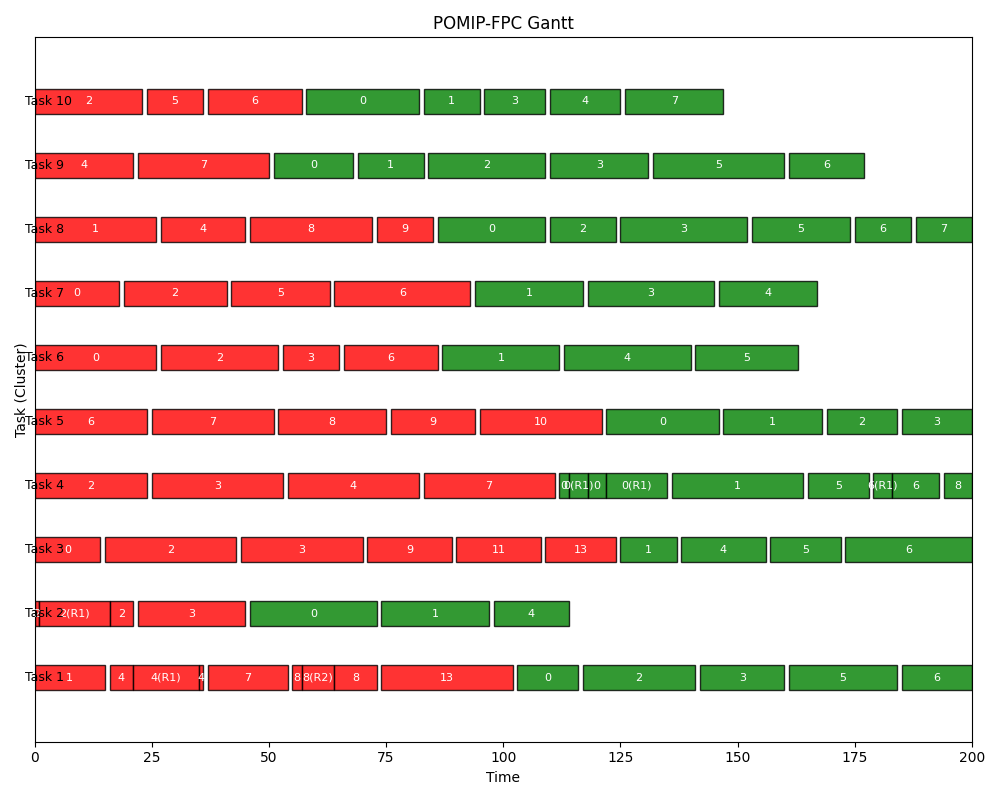
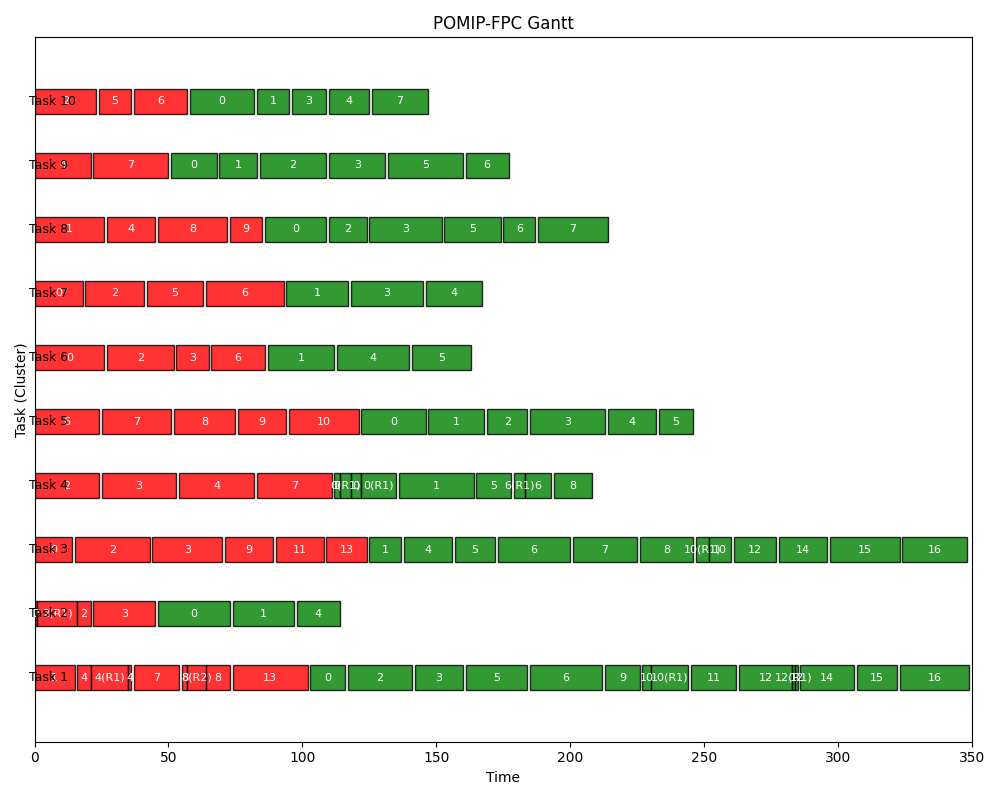
final fix

diff --git a/main2.py b/main2.py
@@ -327,6 +327,7 @@ def assign_resource_intervals_to_nodes(tasks, resources, resources_info):
         for i, usage_count in enumerate(distribution):
             if usage_count <= 0:
                 continue
+            print(f'resources for task {i}')
             candidate_nodes = [nd for nd in tasks[i].node_list if nd.wcet > 0]
 
             while usage_count > 0 and candidate_nodes:
@@ -344,6 +345,7 @@ def assign_resource_intervals_to_nodes(tasks, resources, resources_info):
                         )
                         if not conflict:
                             node.add_resource_interval(start, end, rid)
+                            print(f'node {node.node_id} resource {rid} from {start} to {end}')
                             usage_count -= 1
                             break
                     if usage_count <= 0:
@@ -745,7 +747,7 @@ def main():
     # FIFO
     for t in tasks:
         t.reset_nodes()
-    sched_fifo = POMIPScheduler(tasks, resources, policy="FIFO", time_limit=200)
+    sched_fifo = POMIPScheduler(tasks, resources, policy="FIFO", time_limit=2000)
     fifo_result = sched_fifo.run()
     print("\n=== POMIP (FIFO) ===")
     print("Schedulable?", fifo_result["schedulable"])
@@ -756,7 +758,7 @@ def main():
     # FPC
     for t in tasks:
         t.reset_nodes()
-    sched_fpc = POMIPScheduler(tasks, resources, policy="FPC", time_limit=200)
+    sched_fpc = POMIPScheduler(tasks, resources, policy="FPC", time_limit=2000)
     fpc_result = sched_fpc.run()
     print("\n=== POMIP (FPC) ===")
     print("Schedulable?", fpc_result["schedulable"])

diff --git a/report.md b/report.md
@@ -1,175 +1,183 @@
 <div dir="rtl">
 
-# تولید وظایف و منابع برای سیستمهای زمانبندی واقعی
+# تولید وظایف و پیادهسازی الگوریتم زمانبندی POMIP
 
-**نویسندگان:**
+**نویسندگان:**  
 - **محمد رضایی**  
-  شماره دانشجویی: ۹۹۱۰۵۴۵۳
-- **محمد امین احمدزاده**  
-  شماره دانشجویی: ۹۹۱۰۵۲۰۴
+  شماره دانشجویی: ۹۹۱۰۵۴۵۳  
+- **سید محمد امین احمدزاده**  
+  شماره دانشجویی: ۹۹۱۰۵۲۰۴  
 
 ---
 
 ## فهرست مطالب
-1. [مقدمه](#مقدمه)
-2. [مروری بر پروژه](#مروری-بر-پروژه)
-3. [روششناسی](#روششناسی)
-    - [تنظیم پارامترها](#تنظیم-پارامترها)
-    - [تولید گراف](#تولید-گراف)
-        - [ایجاد یک DAG تصادفی](#ایجاد-یک-DAG-تصادفی)
-        - [محاسبه طول مسیر طولانیترین](#محاسبه-طول-مسیر-طولانیترین)
-        - [تولید یک وظیفه](#تولید-یک-وظیفه)
-    - [تولید منابع](#تولید-منابع)
-    - [محاسبه پردازندهها](#محاسبه-پردازندهها)
-4. [نتایج](#نتایج)
-    - [وظایف تولید شده](#وظایف-تولید-شده)
-    - [منابع مشترک](#منابع-مشترک)
-    - [نیازمندیهای پردازنده](#نیازمندیهای-پردازنده)
-5. [نتیجهگیری](#نتیجهگیری)
-6. [کارهای آینده](#کارهای-آینده)
+1. [مقدمه](#مقدمه)  
+2. [مروری بر پروژه](#مروری-بر-پروژه)  
+3. [روششناسی](#روششناسی)  
+   1. [تنظیم پارامترها](#تنظیم-پارامترها)  
+   2. [تولید گراف](#تولید-گراف)  
+      - [ایجاد یک DAG تصادفی](#ایجاد-یک-dag-تصادفی)  
+      - [محاسبه طول مسیر طولانیترین](#محاسبه-طول-مسیر-طولانیترین)  
+      - [تولید یک وظیفه](#تولید-یک-وظیفه)  
+   3. [تولید منابع](#تولید-منابع)  
+   4. [محاسبه پردازندهها](#محاسبه-پردازندهها)  
+   5. [الگوریتم زمانبندی POMIP](#الگوریتم-زمانبندی-pomip)  
+      - [صف محلی و صف سراسری](#صف-محلی-و-صف-سراسری)  
+      - [قانون ۱: پیشدستی در خوشه](#قانون-۱-پیشدستی-در-خوشه)  
+      - [قانون ۲: مهاجرت به خوشه دیگر](#قانون-۲-مهاجرت-به-خوشه-دیگر)  
+      - [سیاستهای FIFO و FPC](#سیاستهای-fifo-و-fpc)  
+      - [محاسبه QoS و ترسیم نمودار](#محاسبه-qos-و-ترسیم-نمودار)  
+4. [نتایج](#نتایج)  
+   1. [وظایف تولیدشده](#وظایف-تولیدشده)  
+   2. [منابع مشترک](#منابع-مشترک)  
+   3. [نیازمندیهای پردازنده](#نیازمندیهای-پردازنده)  
+   4. [زمانبندی بر اساس POMIP](#زمانبندی-بر-اساس-pomip)  
+5. [نتیجهگیری](#نتیجهگیری)  
 
 ---
 
 ## مقدمه
 
-در سیستمهای زمانبندی واقعی، برنامهریزی مؤثر وظایف و مدیریت منابع برای اطمینان از قابلیت اطمینان و عملکرد سیستم حیاتی است. این پروژه بر تولید گرافهای وظیفهای تصادفی (DAG)، اختصاص ویژگیها به این وظایف، مدیریت منابع مشترک و محاسبه تعداد پردازندههای مورد نیاز با استفاده از روشهای مختلف زمانبندی تمرکز دارد. هدف این است که رفتار وظایف در محیطی شبیهسازی شده از سیستمهای زمانبندی واقعی تحلیل و بررسی شود.
+در سیستمهای زمانبندی واقعی، تضمین اجرای وظایف پیش از موعد تعیینشده (Deadline) اهمیت حیاتی دارد. این پروژه با هدف تولید وظایف بهصورت گرافهای جهتدار بدونحلقه (DAG)، تخصیص خصوصیات زمانی به آنها، تعریف منابع مشترک و در نهایت اجرای الگوریتم زمانبندی **POMIP** طراحی شده است. در این الگوریتم، **پیشدستی** (در سطح خوشه) و **مهاجرت** (در صورت بلاکشدن روی منبع) نقش اساسی دارند؛ همچنین سیاستهای متفاوتی برای مرتبسازی صف منابع (FIFO و FPC) مقایسه میشوند و **کیفیت خدمت** (QoS) برای وظایف نرم نیز اندازهگیری میشود.
 
 ## مروری بر پروژه
 
-این پروژه شامل موارد زیر است:
-- تولید تعداد مشخصی وظیفه، هر کدام به صورت یک گراف جهتدار بدون حلقه (DAG) نمایش داده میشوند.
-- اختصاص ویژگیهایی مانند زمان اجرای بدترین حالت (WCET)، بحرانی بودن و مهلتها به هر وظیفه.
-- ایجاد منابع مشترک با الگوهای دسترسی تعریفشده میان وظایف.
-- محاسبه بهرهوری کلی پردازنده و تعیین تعداد پردازندههای مورد نیاز با استفاده از روشهای برنامهریزی ساده و فدراتد.
-- مصورسازی گرافهای وظیفه تولید شده برای درک و تحلیل بهتر.
+در این پروژه، ابتدا پارامترهای زیر برای تولید وظایف و منابع مشترک مشخص میگردد:
+
+1. **تعداد وظایف** (Tasks) که هر یک به شکل یک گراف DAG تولید میشوند.  
+2. **پارامترهای زمانی** مثل WCET، نسبت مهلت (Deadline)، و نوع گرههای سخت (Hard) یا نرم (Soft).  
+3. **منابع مشترک** که وظایف در حین اجرا ممکن است نیاز به قفلکردن آن داشته باشند.  
+4. **محاسبه تعداد پردازندهها** با دو رویکرد ساده و فدراتد.  
+
+سپس الگوریتم **POMIP** (Preemptive On-demand Migration for Parallel processing) با **قانون ۱ (پیشدستی در خوشه)** و **قانون ۲ (مهاجرت به خوشه دیگر)** پیاده میگردد. در پایان، نمودار گانت (Gantt) برای نمایش اجراهای همزمان و **نمودار QoS برحسب زمان** رسم میشود تا تأثیر سیاست **FIFO** و **FPC** قابل مشاهده باشد.
 
 ## روششناسی
 
 ### تنظیم پارامترها
 
-پروژه با تعریف چندین پارامتر آغاز میشود که ویژگیهای وظایف و منابع را مشخص میکنند:
-
-- **تعداد وظایف (`NUM_TASKS`)**: تعداد وظایفی که تولید خواهند شد.
-- **بازه تعداد گرهها (`NODES_RANGE`)**: بازه تعداد گرههای میانی در هر DAG وظیفه.
-- **بازه WCET (`WCET_RANGE`)**: بازه زمان اجرای بدترین حالت هر گره.
-- **احتمال یال (`P_EDGE`)**: احتمال ایجاد یال بین دو گره در DAG.
-- **بازه نسبت مهلت (`D_RATIO_RANGE`)**: بازه نسبت طول مسیر بحرانی به مهلت.
-- **بازه منابع (`RESOURCE_RANGE`)**: بازه تعداد منابع مشترک.
-- **بازه تعداد دسترسیها (`ACCESS_COUNT_RANGE`)**: بازه تعداد کل دسترسی به هر منبع.
-- **بازه طول دسترسی (`ACCESS_LEN_RANGE`)**: بازه حداکثر طول دسترسی (بخش بحرانی) به یک منبع.
-- **احتمال تبدیل Hard به Soft (`HARD_SOFT_PROB`)**: احتمال تبدیل یک گره از نوع Hard به Soft در صورت عدم نقض محدودیتها.
-- **نسبتهای بحرانی (`CRITICAL_RATIOS`)**: نسبتهای ممکن گرههای بحرانی به غیربحرانی در یک وظیفه.
-- **دایرکتوری خروجی (`OUTPUT_DIR`)**: دایرکتوری برای ذخیره تصاویر گرافهای تولید شده.
+پارامترهای اصلی عبارتاند از:
+- `NUM_TASKS`: تعداد وظایف تولیدی  
+- `NODES_RANGE`: بازه تعداد گرههای میانی در هر وظیفه  
+- `WCET_RANGE`: بازه زمان اجرای بدترین حالت برای هر گره  
+- `P_EDGE`: احتمال ایجاد یال بین گرهها  
+- `D_RATIO_RANGE`: تعیین نسبت طول مسیر بحرانی به مهلت  
+- `RESOURCE_RANGE`: بازه تعداد منابع مشترک  
+- `ACCESS_COUNT_RANGE`: تعداد کل دسترسیهای احتمالی به هر منبع  
+- `ACCESS_LEN_RANGE`: حداکثر طول دسترسی (بخش بحرانی) به منبع  
 
 ### تولید گراف
 
 #### ایجاد یک DAG تصادفی
 
-تابع `create_random_dag` یک گراف جهتدار بدون حلقه (DAG) تصادفی با تعداد مشخصی گره میانی تولید میکند. فرآیند شامل مراحل زیر است:
-
-1. **ابتداییسازی گرهها**: تمام گرههای میانی به صورت پیشفرض نوع "Soft" دارند. گرههای منبع و مقصد (sink) نوعی ندارند.
-2. **اختصاص گرههای بحرانی**: یک نسبت بهصورت تصادفی از لیست `CRITICAL_RATIOS` انتخاب شده و تعداد معادل گرهها به عنوان "Hard" (بحرانی) تعیین میشوند.
-3. **ایجاد یالها**: برای هر جفت گره `(u, v)` که `u < v`، با احتمال `P_EDGE` یک یال جهتدار `(u -> v)` اضافه میشود، به شرطی که محدودیتها نقض نشوند (مثلاً یک گره Soft نمیتواند فرزند Hard داشته باشد).
-4. **تأیید عدم وجود حلقه**: با استفاده از مرتبسازی توپولوژیک، بررسی میشود که آیا گراف حلقه دارد یا خیر. در صورت وجود حلقه، فرآیند تکرار میشود تا گراف بدون حلقه تولید شود.
+تابع `create_random_dag` در چند مرحله عمل میکند:
+1. تعداد گرههای میانی و یک گره منبع (source) و مقصد (sink) را ایجاد میکند.  
+2. نسبت گرههای بحرانی را بر اساس `CRITICAL_RATIOS` تعیین میکند.  
+3. با احتمال `P_EDGE` بین گرهها یال ایجاد میشود، تا زمانیکه گراف حلقهدار نشود (بررسی مرتبسازی توپولوژیک).  
+4. منبع به حداقل یک گره میانی و حداقل یک گره میانی به مقصد متصل میشود.
 
 #### محاسبه طول مسیر طولانیترین
 
-تابع `compute_longest_path_length_dag` طول مسیر طولانیترین (مسیر بحرانی) را در DAG محاسبه میکند. این کار با استفاده از مراحل زیر انجام میشود:
-
-1. **مرتبسازی توپولوژیک**: گرهها به ترتیب توپولوژیک پردازش میشوند.
-2. **برنامهنویسی پویا**: برای هر گره، طول مسیر طولانیترین به آن گره بر اساس طول مسیر گرههای پیشین و WCET آن گره بهروز میشود.
-3. **نتیجه**: بیشترین مقدار از طول مسیرها نشاندهنده طول مسیر بحرانی `L_i` است.
+تابع `compute_longest_path_length_dag` با مرتبسازی توپولوژیک و برنامهنویسی پویا، طول مسیر بحرانی (`L_i`) در DAG را محاسبه میکند.
 
 #### تولید یک وظیفه
 
-تابع `generate_one_task` ایجاد یک وظیفه بهصورت گراف DAG با مراحل زیر را انجام میدهد:
+تابع `generate_one_task` با استفاده از گراف تصادفی میانی، وظیفه را به صورت یک DAG نهایی ساخته و پارامترهای زیر را برای هر وظیفه حساب میکند:
+- **C_i**: مجموع WCET تمام گرههای میانی  
+- **L_i**: طول مسیر بحرانی  
+- **D_i** و **T_i**: تعیینشده بر اساس نسبت بحرانی و سراسری  
+- **U_i**: نسبت بهرهوری از `C_i / T_i`  
 
-1. **تولید DAG میانی**: با استفاده از تابع `create_random_dag` ساختار اصلی DAG تولید میشود.
-2. **اضافهکردن گرههای منبع و مقصد**: یک گره منبع و یک گره مقصد به DAG اضافه میشوند.
-3. **اختصاص WCET**: به هر گره میانی یک WCET تصادفی اختصاص داده میشود، در حالی که گرههای منبع و مقصد WCET صفر دارند.
-4. **محاسبه پارامترها**:
-    - **C_i**: مجموع زمان اجرای تمام گرههای میانی.
-    - **L_i**: طول مسیر بحرانی.
-    - **D_i**: مهلت، براساس نسبت تصادفی از `D_RATIO_RANGE` تعیین میشود.
-    - **T_i**: برابر با `D_i`.
-    - **U_i**: بهرهوری، محاسبهشده به صورت `C_i / T_i`.
-5. **مصورسازی گراف**: DAG با رنگهای متفاوت برای نوع گرهها مصورسازی شده و به عنوان یک تصویر در دایرکتوری خروجی ذخیره میشود.
+همچنین برای هر گره بحرانی یا نرم، **`is_on_critical_path`** با کمک تابع `compute_is_on_critical_path` مشخص میشود تا در سیاست **FPC** از آن استفاده گردد.
 
 ### تولید منابع
 
-تابع `generate_resources` منابع مشترک را با ویژگیهای زیر ایجاد میکند:
+تابع `generate_resources` منابع را با مشخصات زیر تولید میکند:
+- **حداکثر طول دسترسی** در `ACCESS_LEN_RANGE`  
+- **تعداد کل دسترسی** در `ACCESS_COUNT_RANGE`  
+- **توزیع دسترسیها** به صورت تصادفی بین وظایف.
 
-- **حداکثر طول دسترسی**: بهصورت تصادفی در بازه `ACCESS_LEN_RANGE` تعیین میشود.
-- **تعداد کل دسترسیها**: بهصورت تصادفی در بازه `ACCESS_COUNT_RANGE` تعیین میشود.
-- **توزیع دسترسیها**: تعداد کل دسترسیها بهصورت تصادفی میان تمام وظایف توزیع میشود.
+تابع `assign_resource_intervals_to_nodes` نیز مشخص میکند هر گره چه زمانی و به چه مدت به منابع نیاز دارد.
 
 ### محاسبه پردازندهها
 
-دو روش برای محاسبه تعداد پردازندههای مورد نیاز استفاده شده است:
+برای تعیین تعداد پردازندهها، ابتدا بهرهوری کلی تمام وظایف جمع شده و `m = ceil(UΣ)` محاسبه میشود. سپس با روش فدراتد:
+1. برای هر وظیفه اگر `U_i > 1`، فرمول `ceil((C_i - L_i) / (D_i - L_i))` بهکار میرود.  
+2. در غیر این صورت، یک پردازنده اختصاصی به وظیفه داده میشود.
 
-1. **برنامهریزی ساده**: بهرهوری کلی تمامی وظایف جمعآوری شده و تعداد پردازندهها برابر با بخش صحیح بالا از این مجموع تعیین میشود.
-2. **برنامهریزی فدراتد**: برای هر وظیفه بهصورت جداگانه تعداد پردازندههای مورد نیاز محاسبه شده و سپس مجموع آنها بهعنوان تعداد کل پردازندهها در نظر گرفته میشود.
-    - اگر `U_i > 1`، تعداد پردازندهها با استفاده از فرمول `ceil((C_i - L_i) / (D_i - L_i))` محاسبه میشود.
-    - اگر `U_i <= 1`، یک پردازنده اختصاصی به وظیفه داده میشود.
+### الگوریتم زمانبندی POMIP
+
+در این پروژه، برای زمانبندی وظایف DAG با منابع مشترک، الگوریتم **POMIP** با دو قانون اصلی و دو سیاست صف سراسری پیاده شده است:
+
+#### صف محلی و صف سراسری
+
+- به ازای هر منبع `l_q`، یک صف **سراسری** \(`GQ_q`\) ایجاد میشود. هر نود که میخواهد منبع را قفل کند، ابتدا وارد صف **محلی** \(`FQ_{q,i}`) مربوط به آن منبع و وظیفه i میشود. اگر در ابتدای صف محلی باشد، وارد صف سراسری میگردد و اگر در ابتدای صف سراسری باشد، منبع را قفل میکند.  
+- پس از اتمام استفاده از منبع، نود از هر دو صف حذف و سرصف محلی بعدی وارد صف سراسری میشود.
+
+#### قانون ۱: پیشدستی در خوشه
+
+اگر نودی منبع را قفل کرده ولی در خوشه خود CPU آزادی موجود نباشد، میتواند یک نود غیر بحرانی در حال اجرای بخش عادی را از CPU خارج کند (بهجز نودی که بخش بحرانیاش در حال اجراست).
+
+#### قانون ۲: مهاجرت به خوشه دیگر
+
+اگر پیشدستی ممکن نباشد، نود میتواند به خوشهای مهاجرت کند که وظایف آن هم بر روی همان منبع بلاک هستند، و پس از اتمام بخش بحرانی به خوشه خود برگردد.
+
+#### سیاستهای FIFO و FPC
+
+- **FIFO**: در صف سراسری منابع، با توجه به زمان ورود نودها به آن صف، ترتیب اجرا را تعیین میکند.  
+- **FPC** (First-Path-Critical): نودهایی که **`is_on_critical_path=True`** دارند اولویت بالاتر داشته و در ابتدای صف میآیند؛ در نتیجه سریعتر قفل منبع را میگیرند.
+
+#### محاسبه QoS و ترسیم نمودار
+
+در انتهای اجرای الگوریتم:
+- **کیفیت خدمات (QoS)** برای نودهای غیر بحرانی محاسبه میشود:
+  - اگر قبل از Deadline تمام شوند، QoS=100%.  
+  - به ازای هر واحد زمانی تأخیر پس از Deadline، ۳۰٪ از QoS آن نود کاسته میشود.  
+- برای اندازهگیری **سیر رشد QoS** در طول زمان، پس از هر تیک زمان، میانگین QoS نودهای نرم تکمیلشده حساب و ذخیره میگردد. این دادهها در انتها به صورت نمودار رسم میشود.
 
 ## نتایج
 
-### وظایف تولید شده
+### وظایف تولیدشده
 
-هر وظیفه بهصورت یک DAG نمایش داده شده و شامل جزئیات زیر است:
+هر وظیفه به صورت یک گراف DAG با گرههای بحرانی و نرم ایجاد شده است. خصوصیات:
+- **C_i**: مجموع WCET  
+- **L_i**: طول مسیر بحرانی  
+- **D_i, T_i**: مهلتها  
+- **U_i**: بهرهوری وظیفه  
 
-- **شناسه وظیفه**: شناسه منحصر بهفرد برای هر وظیفه.
-- **تعداد گرهها**: تعداد کل گرهها شامل گرههای منبع و مقصد.
-- **نسبت گرههای بحرانی**: نسبت گرههای بحرانی به کل گرههای میانی.
-- **جزئیات گرهها**:
-    - **شناسه**: شناسه گره.
-    - **WCET**: زمان اجرای بدترین حالت.
-    - **نوع**: "Hard" یا "Soft".
-- **یالها**: اتصالات جهتدار بین گرهها.
-- **پارامترها**:
-    - **C_i**: مجموع زمان اجرای.
-    - **L_i**: طول مسیر بحرانی.
-    - **D_i**: مهلت.
-    - **T_i**: مهلت (برابر با `D_i`).
-    - **U_i**: بهرهوری.
-- **تصویر گراف**: نمایش تصویری از DAG وظیفه در دایرکتوری `graphs_output` ذخیره شده است.
-
-*مثال خروجی:*
-
---- Task tau_1 --- • تعداد کل گرهها (شامل source و sink): 12 • نسبت گرههای بحرانی: 0.33 • گرهها (ID -> WCET, نوع): - 0: c=25, type=Soft - 1: c=17, type=Hard - ... • یالها: [(0, 1), (1, 2), ...] • C1 = 200 • L1 = 150 • D1 = 600 • T1 = 600 • U1 = 0.333 -> تصویر گراف در فایل: graphs_output/dag_task_1.png
-
+همچنین تصویری از هر وظیفه در پوشه `graphs_output` قابل مشاهده است.
 
 ### منابع مشترک
 
-منابع مشترک با ویژگیهای زیر مشخص شدهاند:
-
-- **شناسه منبع**: شناسه منحصر بهفرد برای هر منبع.
-- **حداکثر طول دسترسی**: بیشترین مدت زمانی که یک وظیفه میتواند منبع را در اختیار داشته باشد.
-- **تعداد کل دسترسیها**: تعداد کل دفعاتی که منبع توسط وظایف استفاده میشود.
-- **توزیع دسترسیها**: تعداد دسترسیهای اختصاص داده شده به هر وظیفه.
-
-*مثال خروجی:*
-
-• تعداد منابع (n_r) = 3
-
-    منبع l_1: حداکثر طول دسترسی = 75 تعداد کل دسترسی = 10 توزیع بین وظایف: tau_1=2, tau_2=3, tau_3=1, ...
-
+خروجی تولید منابع شامل:
+- **تعداد منابع**  
+- **حداکثر طول دسترسی**  
+- **تعداد کل دسترسی**  
+- **توزیع بین وظایف**  
 
 ### نیازمندیهای پردازنده
 
-تعداد پردازندههای مورد نیاز با استفاده از دو روش محاسبه شده است:
-
-1. **بر اساس بهرهوری کلی**:
-    - **فرمول**: `m = ceil(UΣ)`
-    - **مثال**: اگر `UΣ = 9.75`، آنگاه `m = 10`.
-    
+1. **بر اساس بهرهوری کلی**: 
+    - `m = ceil(UΣ)`
 2. **بر اساس برنامهریزی فدراتد**:
-    - **روش**: بهصورت جداگانه برای هر وظیفه محاسبه شده و مجموع آنها.
-    - **مثال**: اگر `m_fed = 15`، آنگاه ۱۵ پردازنده مورد نیاز است.
+    - اگر `U_i > 1`: `m_i = ceil((C_i - L_i) / (D_i - L_i))`
+    - در غیر این صورت: `m_i = 1`
     
-*مثال خروجی:*
+این دو روش تعداد پردازندههای مورد نیاز را تخمین میزند.
 
-• بر اساس جمع بهرهوری: m = ceil(UΣ) = 10 • بر اساس Federated Scheduling: m = 15
+### زمانبندی بر اساس POMIP
 
+- **FIFO**: نودها در صف سراسری هر منبع بر اساس **زمان ورود** مرتب میشوند.  
+- **FPC**: اگر نودی روی مسیر بحرانی باشد، پیش از نودهای دیگر در صف سراسری قرار میگیرد.  
+
+نمودارهای گانت (`fifo_schedule.png` و `fpc_schedule.png`) نشان میدهند که کدام نود در چه زمانی اجرا میشود و اگر منبعی قفل شده باشد، تحت `(R#)` نشان داده میشود. همچنین نمودار QoS برحسب زمان (`qos_over_time_comparison.png`) اختلاف عملکرد FIFO و FPC را در ارائه کیفیت خدمات برای وظایف Soft نمایش میدهد.
+
+## نتیجهگیری
+
+در این پروژه، الگوریتم POMIP پیادهسازی شده و رفتار آن روی مجموعهای از وظایف DAG تحلیل شد. مهمترین نکات عبارتند از:
+1. **صف محلی و سراسری** برای هر منبع بهخوبی مدیریت دسترسیهای همزمان را آسان میکند.  
+2. **قانون ۱ (پیشدستی)** باعث میشود تا نودهای بحرانی بتوانند در صورت نبود CPU آزاد، نود نرم را بیرون کنند.  
+3. **قانون ۲ (مهاجرت)** مکمل قانون پیشدستی است و در صورت عدم امکان پیشدستی، اجازه میدهد گره دارنده منبع به خوشهای برود که قفل آن منبع سبب بلاک شدن گرههای دیگر شده است.  
+4. مقایسه **FIFO** و **FPC** نشان میدهد در شرایطی که برخورد منابع زیاد باشد و وظایف بحرانی روی مسیر بحرانی مشترک شوند، **FPC** میتواند بهبود QoS ایجاد کند؛ اما اگر تداخل منابع کم باشد، نتایج این دو سیاست ممکن است یکسان به نظر برسد.  
+5. محاسبه **QoS** برای گرههای نرم و رسم نمودار آن برحسب زمان، دیدی از نحوه رشد تدریجی کیفیت خدمات سیستم در طول اجرای وظایف ارائه میدهد.
 
 </div>
